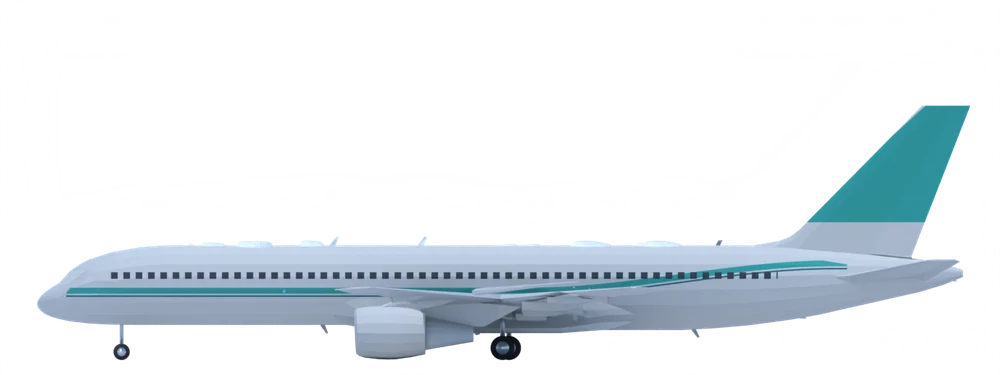
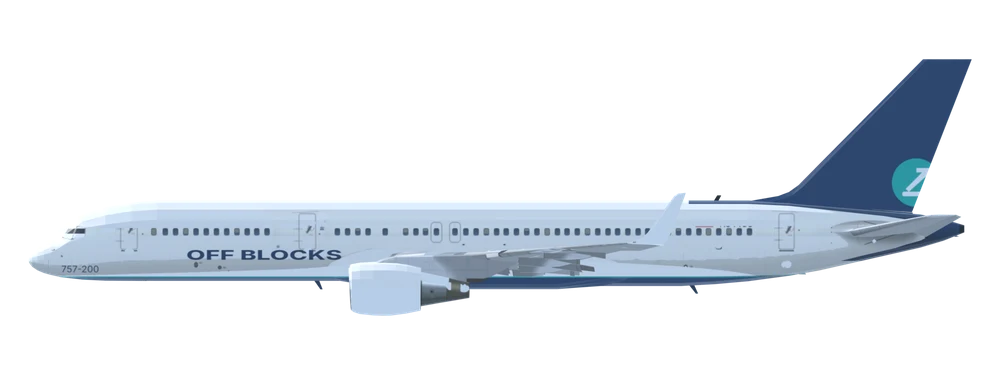
Off Blocks livery renders for 757/767 family
Claude-Session: https://claude.ai/code/session_01XrFePU9h1hCzy7p7tSHsYD

diff --git a/sw.js b/sw.js
@@ -1,5 +1,5 @@
 /* Off Blocks service worker. Bump VER to push an update to installed copies. */
-const VER='ob-v42',CORE=["./", "index.html", "manifest.webmanifest", "network.json", "icons/icon-192.png", "icons/icon-512.png", "mapimg/detail.json", "mapimg/sat.webp", "mapimg/terrain.webp", "img/A19N.webp", "img/A19N_side.webp", "img/A20N.webp", "img/A20N_side.webp", "img/A21N.webp", "img/A21N_side.webp", "img/A21X.webp", "img/A21X_side.webp", "img/A306_side.webp", "img/A310.webp", "img/A310_side.webp", "img/A318.webp", "img/A318_side.webp", "img/A319.webp", "img/A319_side.webp", "img/A320.webp", "img/A320_side.webp", "img/A321.webp", "img/A321_side.webp", "img/A332_side.webp", "img/A333_side.webp", "img/A338.webp", "img/A338_side.webp", "img/A339.webp", "img/A339_side.webp", "img/A343_side.webp", "img/A346_side.webp", "img/A359_side.webp", "img/A35K.webp", "img/A35K_side.webp", "img/A388_side.webp", "img/AN24.webp", "img/AR21.webp", "img/AT42_side.webp", "img/AT76_side.webp", "img/B190.webp", "img/B37M.webp", "img/B37M_side.webp", "img/B38M.webp", "img/B38M_side.webp", "img/B39M.webp", "img/B39M_side.webp", "img/B3XM.webp", "img/B3XM_side.webp", "img/B712.webp", "img/B712_side.webp", "img/B722_side.webp", "img/B732.webp", "img/B732_side.webp", "img/B733_side.webp", "img/B734_side.webp", "img/B735.webp", "img/B735_side.webp", "img/B736_side.webp", "img/B737_side.webp", "img/B738_side.webp", "img/B739_side.webp", "img/B744_side.webp", "img/B748_side.webp", "img/B752.webp", "img/B752_side.webp", "img/B753.webp", "img/B753_side.webp", "img/B762.webp", "img/B762_side.webp", "img/B763_side.webp", "img/B764.webp", "img/B764_side.webp", "img/B772_side.webp", "img/B773.webp", "img/B773_side.webp", "img/B779.webp", "img/B779_side.webp", "img/B77L_side.webp", "img/B77W_side.webp", "img/B788_side.webp", "img/B789_side.webp", "img/B78X_side.webp", "img/BCS1_side.webp", "img/BCS3_side.webp", "img/C208.webp", "img/C208_side.webp", "img/C919.webp", "img/C919_side.webp", "img/CRJ2.webp", "img/CRJ2_side.webp", "img/CRJ7_side.webp", "img/CRJ9.webp", "img/CRJ9_side.webp", "img/CRJX_side.webp", "img/D328.webp", "img/DH8A.webp", "img/DH8A_side.webp", "img/DH8C_side.webp", "img/DH8D_side.webp", "img/DHC6_side.webp", "img/E120.webp", "img/E120_side.webp", "img/E135.webp", "img/E135_side.webp", "img/E140.webp", "img/E140_side.webp", "img/E145.webp", "img/E145_side.webp", "img/E170_side.webp", "img/E175_side.webp", "img/E190_side.webp", "img/E195.webp", "img/E195_side.webp", "img/E290_side.webp", "img/E295.webp", "img/E295_side.webp", "img/E75X.webp", "img/E75X_side.webp", "img/F100.webp", "img/F100_side.webp", "img/F50.webp", "img/F50_side.webp", "img/F70.webp", "img/F70_side.webp", "img/J41.webp", "img/L410.webp", "img/L410_side.webp", "img/MA60.webp", "img/MD83.webp", "img/MD83_side.webp", "img/MD90.webp", "img/MD90_side.webp", "img/RJ1H.webp", "img/RJ1H_side.webp", "img/RJ85.webp", "img/RJ85_side.webp", "img/SB20.webp", "img/SF34_side.webp", "img/T154.webp", "img/T154_side.webp"];
+const VER='ob-v43',CORE=["./", "index.html", "manifest.webmanifest", "network.json", "icons/icon-192.png", "icons/icon-512.png", "mapimg/detail.json", "mapimg/sat.webp", "mapimg/terrain.webp", "img/A19N.webp", "img/A19N_side.webp", "img/A20N.webp", "img/A20N_side.webp", "img/A21N.webp", "img/A21N_side.webp", "img/A21X.webp", "img/A21X_side.webp", "img/A306_side.webp", "img/A310.webp", "img/A310_side.webp", "img/A318.webp", "img/A318_side.webp", "img/A319.webp", "img/A319_side.webp", "img/A320.webp", "img/A320_side.webp", "img/A321.webp", "img/A321_side.webp", "img/A332_side.webp", "img/A333_side.webp", "img/A338.webp", "img/A338_side.webp", "img/A339.webp", "img/A339_side.webp", "img/A343_side.webp", "img/A346_side.webp", "img/A359_side.webp", "img/A35K.webp", "img/A35K_side.webp", "img/A388_side.webp", "img/AN24.webp", "img/AR21.webp", "img/AT42_side.webp", "img/AT76_side.webp", "img/B190.webp", "img/B37M.webp", "img/B37M_side.webp", "img/B38M.webp", "img/B38M_side.webp", "img/B39M.webp", "img/B39M_side.webp", "img/B3XM.webp", "img/B3XM_side.webp", "img/B712.webp", "img/B712_side.webp", "img/B722_side.webp", "img/B732.webp", "img/B732_side.webp", "img/B733_side.webp", "img/B734_side.webp", "img/B735.webp", "img/B735_side.webp", "img/B736_side.webp", "img/B737_side.webp", "img/B738_side.webp", "img/B739_side.webp", "img/B744_side.webp", "img/B748_side.webp", "img/B752.webp", "img/B752_side.webp", "img/B753.webp", "img/B753_side.webp", "img/B762.webp", "img/B762_side.webp", "img/B763_side.webp", "img/B764.webp", "img/B764_side.webp", "img/B772_side.webp", "img/B773.webp", "img/B773_side.webp", "img/B779.webp", "img/B779_side.webp", "img/B77L_side.webp", "img/B77W_side.webp", "img/B788_side.webp", "img/B789_side.webp", "img/B78X_side.webp", "img/BCS1_side.webp", "img/BCS3_side.webp", "img/C208.webp", "img/C208_side.webp", "img/C919.webp", "img/C919_side.webp", "img/CRJ2.webp", "img/CRJ2_side.webp", "img/CRJ7_side.webp", "img/CRJ9.webp", "img/CRJ9_side.webp", "img/CRJX_side.webp", "img/D328.webp", "img/DH8A.webp", "img/DH8A_side.webp", "img/DH8C_side.webp", "img/DH8D_side.webp", "img/DHC6_side.webp", "img/E120.webp", "img/E120_side.webp", "img/E135.webp", "img/E135_side.webp", "img/E140.webp", "img/E140_side.webp", "img/E145.webp", "img/E145_side.webp", "img/E170_side.webp", "img/E175_side.webp", "img/E190_side.webp", "img/E195.webp", "img/E195_side.webp", "img/E290_side.webp", "img/E295.webp", "img/E295_side.webp", "img/E75X.webp", "img/E75X_side.webp", "img/F100.webp", "img/F100_side.webp", "img/F50.webp", "img/F50_side.webp", "img/F70.webp", "img/F70_side.webp", "img/J41.webp", "img/L410.webp", "img/L410_side.webp", "img/MA60.webp", "img/MD83.webp", "img/MD83_side.webp", "img/MD90.webp", "img/MD90_side.webp", "img/RJ1H.webp", "img/RJ1H_side.webp", "img/RJ85.webp", "img/RJ85_side.webp", "img/SB20.webp", "img/SF34_side.webp", "img/T154.webp", "img/T154_side.webp"];
 self.addEventListener('install',e=>{e.waitUntil(caches.open(VER).then(c=>Promise.all(CORE.map(u=>c.add(u).catch(()=>0)))).then(()=>self.skipWaiting()))});
 self.addEventListener('activate',e=>{e.waitUntil(caches.keys().then(k=>Promise.all(k.filter(x=>x!==VER).map(x=>caches.delete(x)))).then(()=>self.clients.claim()))});
 self.addEventListener('fetch',e=>{const r=e.request,u=new URL(r.url);if(r.method!=='GET'||u.origin!==location.origin)return;

diff --git a/index.html b/index.html
@@ -180,7 +180,7 @@ const lvBase=src=>new Promise(res=>{if(LVI.base[src])return res(LVI.base[src]);c
 const PHOTOS_OFF={B39M:{src:'img/B39M_photo.webp',by:'Clemens Vasters',lic:'CC BY 2.0',lu:'https://creativecommons.org/licenses/by/2.0/',url:'https://commons.wikimedia.org/wiki/File:N7379E_-_Boeing_737_MAX_9.jpg',n:'Boeing 737 MAX 9'}};
 const PHOTOS={};
 /* types with a finished Off Blocks livery render: shown as-is, no repaint */
-const LVNAT={B38M:1,B39M:1,A318:1,A319:1,A320:1,A321:1,A19N:1,A20N:1,A21N:1,A21X:1,A332:1,A333:1,A338:1,A339:1,A343:1,A346:1,A359:1,A35K:1,B772:1,B773:1,B77L:1,B77W:1,B777:1,B779:1,B788:1,B789:1,B78X:1,B787:1};
+const LVNAT={B38M:1,B39M:1,A318:1,A319:1,A320:1,A321:1,A19N:1,A20N:1,A21N:1,A21X:1,A332:1,A333:1,A338:1,A339:1,A343:1,A346:1,A359:1,A35K:1,B772:1,B773:1,B77L:1,B77W:1,B777:1,B779:1,B788:1,B789:1,B78X:1,B787:1,B752:1,B753:1,B762:1,B763:1,B764:1};
 const lvSrc=(c,v,l)=>LVI.cache[lvKey(c,v,l)]||'img/'+c+(v==='s'?'_side':'')+'.webp';
 /* natural white: the renders come out blue-grey, so lift and neutralise every light, low-saturation pixel (windows, gear and dark detail are left alone) */
 function lvRefL(d,A){const a=[];for(let i=0;i<A.length;i+=7){if(!A[i])continue;const j=i*4,r=d[j],g=d[j+1],b=d[j+2],mx=Math.max(r,g,b),lu=.3*r+.59*g+.11*b;if(lu>110&&(mx-Math.min(r,g,b))/(mx||1)<.36)a.push(lu)}if(!a.length)return 190;a.sort((p,q)=>p-q);return a[a.length>>1]}
